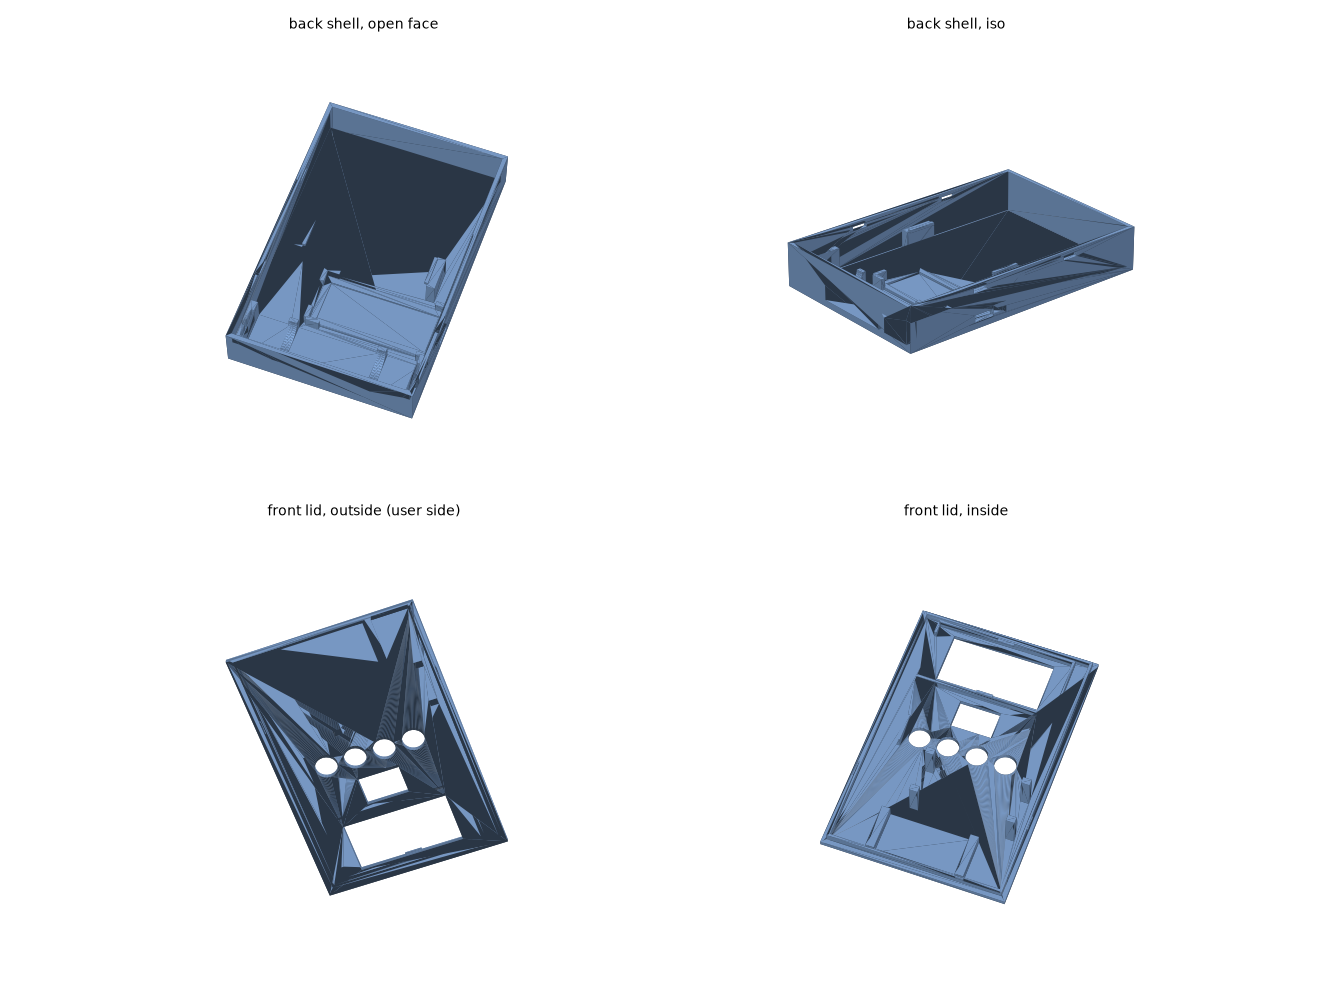
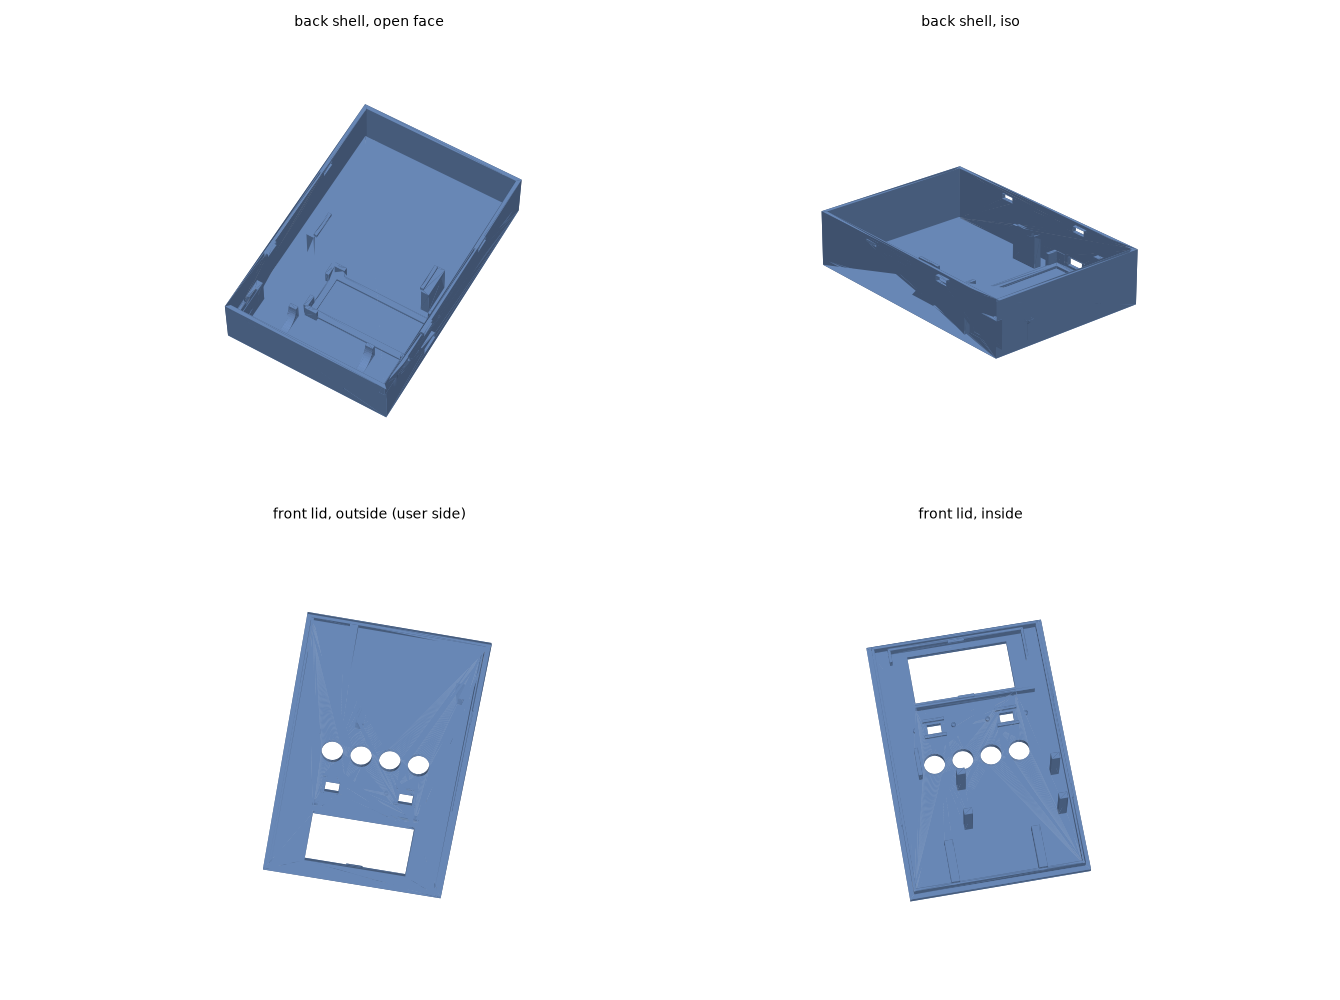
Replace rocker with mode slide switch and add power slide switch
- config/main: PIN_ROCKER becomes PIN_MODE (mode slide switch, same wake
  logic) with a short settle delay before reading it. Power switch is in
  series with battery + and has no GPIO.
- case: two slide-switch slots in the lid (mode left, power right) with
  heat-stake pins for the mounting ears and locating ribs; STLs and
  preview regenerated.
- README: BOM row, wiring notes (charging needs power on), case notes.
- CLAUDE.md: slide switch rules and next steps.

diff --git a/hardware/case/case.py b/hardware/case/case.py
@@ -2,7 +2,8 @@
 
 Two printed parts, no screws and no inserts:
   back.stl  : shell with 18650 cradle, ESP32 board pocket, button-board ledges, USB-C slot
-  front.stl : lid with display window, 4 button holes, rocker cutout; its lip snaps into the back
+  front.stl : lid with display window, 4 button holes, two slide-switch slots (mode, power);
+              its lip snaps into the back
 
 Print: back with the open face up; front with the outside face down. PETG, 0.2 mm layers, 3 walls.
 All sizes are nominal datasheet values. MEASURE YOUR PARTS and edit the PARAMETERS before printing.
@@ -58,8 +59,21 @@ DISP_FRAME_H = 5.0
 BTN_Y = 66.0
 BTN_X = [23.0, 37.0, 51.0, 65.0]  # centres of the four buttons
 BTN_HOLE = 10.5
-ROCKER_Y = 84.0
-ROCKER_CUT = (20.0, 14.0)         # KCD11 mini rocker panel cutout, check your part
+# Two mini SPDT slide switches with mounting ears (SS-12F15 family), mounted under the lid with
+# the handle through a slot: left = mode (normal / slave), right = device power.
+# Sizes vary by maker: MEASURE the switch you buy (body, ear hole spacing and diameter, ear
+# thickness, handle size and travel) and edit these before printing.
+SLIDE_Y = 84.0
+SLIDE_X = [W / 2.0 - 18.0, W / 2.0 + 18.0]  # centres: mode (left), power (right)
+SLIDE_BODY = (12.7, 6.6)          # body footprint (along travel, across)
+SLIDE_HANDLE = (2.0, 3.0)         # handle cross-section (along travel, across)
+SLIDE_TRAVEL = 3.0                # handle travel end to end
+SLIDE_CLEAR = 1.0                 # clearance around the handle in the slot
+SLIDE_EAR_PITCH = 19.0            # ear hole centre to centre
+SLIDE_EAR_HOLE = 2.2              # ear hole diameter
+SLIDE_EAR_T = 0.6                 # ear thickness
+STAKE_D = 1.9                     # printed pin through each ear hole, heat-staked after fitting
+STAKE_L = SLIDE_EAR_T + 1.5       # pin length below the lid (leaves 1.5 mm to melt over)
 
 FL = WALL - 0.3  # features start slightly inside the floor so unions fuse
 INNER_W, INNER_H = W - 2 * WALL, H - 2 * WALL
@@ -131,6 +145,7 @@ for xw in (0, W - WALL):
         back = back.cut(box(xw - 0.1, yw - 4, SNAP_Z - 1.5, xw + WALL + 0.1, yw + 4, SNAP_Z + 1.5))
 
 # ---------------- FRONT LID ----------------
+Z0_PLATE = FP - 0.3               # inside features start just inside the plate so unions fuse
 front = box(0, 0, 0, W, H, FP)
 # Lip that enters the back shell (z from FP upward in print orientation: built in +Z, flipped later)
 LIP_H, LIP_T = 5.0, 1.2
@@ -142,13 +157,24 @@ for xb, d in ((WALL + TOL - 0.5, 1), (W - WALL - TOL - 0.3, -1)):
     for yw in (H * 0.30, H * 0.70):
         front = front.union(box(xb, yw - 3.5, FP + LIP_H - 2.0, xb + 0.8, yw + 3.5, FP + LIP_H - 0.6))
 
-# Window, button holes, rocker cutout (through the plate)
+# Window, button holes, slide-switch slots (through the plate)
 disp_cy = DISP_Y0 + DISP_W / 2.0
 front = front.cut(box(cx - WIN_L / 2, disp_cy - WIN_W / 2, -1, cx + WIN_L / 2, disp_cy + WIN_W / 2, FP + 1))
 for bx in BTN_X:
     front = front.cut(cyl(BTN_HOLE / 2, FP + 2, (bx + (cx - 44.0), BTN_Y, FP / 2)))
-front = front.cut(box(cx - ROCKER_CUT[0] / 2, ROCKER_Y - ROCKER_CUT[1] / 2, -1,
-                      cx + ROCKER_CUT[0] / 2, ROCKER_Y + ROCKER_CUT[1] / 2, FP + 1))
+slot_x = SLIDE_HANDLE[0] + SLIDE_TRAVEL + 2 * SLIDE_CLEAR
+slot_y = SLIDE_HANDLE[1] + 2 * SLIDE_CLEAR
+for sx in SLIDE_X:
+    front = front.cut(box(sx - slot_x / 2, SLIDE_Y - slot_y / 2, -1, sx + slot_x / 2, SLIDE_Y + slot_y / 2, FP + 1))
+    # The ears sit flat on the lid underside; a printed pin goes through each ear hole and is
+    # heat-staked (melted over with a soldering iron), so the switches need no screws.
+    for ex in (sx - SLIDE_EAR_PITCH / 2, sx + SLIDE_EAR_PITCH / 2):
+        front = front.union(cyl(STAKE_D / 2, STAKE_L + 0.3, (ex, SLIDE_Y, FP - 0.3 + (STAKE_L + 0.3) / 2)))
+    # Locating ribs either side of the body (across travel) stop it twisting before staking.
+    for sy in (-1, 1):
+        y0 = SLIDE_Y + sy * (SLIDE_BODY[1] / 2 + TOL)
+        front = front.union(box(sx - SLIDE_BODY[0] / 2 + 1, min(y0, y0 + sy * 1.2), Z0_PLATE,
+                                sx + SLIDE_BODY[0] / 2 - 1, max(y0, y0 + sy * 1.2), FP + 2.0))
 
 # Display frame on the inside face, with two flexing hooks on the long edges
 fx0, fx1 = cx - DISP_L / 2 - TOL, cx + DISP_L / 2 + TOL

diff --git a/src/main.cpp b/src/main.cpp
@@ -64,7 +64,7 @@ static bool pressed(int pin) { return digitalRead(pin) == LOW; }
 
 static void setupInputs() {
   // External 1 Mohm pull-ups: the internal ones leak far more in deep sleep.
-  for (int p : {PIN_ROCKER, PIN_SELECT, PIN_ROLE, PIN_SEND, PIN_REFRESH}) pinMode(p, INPUT);
+  for (int p : {PIN_MODE, PIN_SELECT, PIN_ROLE, PIN_SEND, PIN_REFRESH}) pinMode(p, INPUT);
 }
 
 static bool debounced(int pin) {
@@ -149,10 +149,10 @@ static void goToSleep() {
                                (gpio_num_t)PIN_REFRESH};
   uint64_t clickMask = 0;
   for (auto p : clicks) clickMask |= 1ULL << p;
-  // Buttons wake on LOW (pressed). The rocker wakes on the level opposite its current one.
+  // Buttons wake on LOW (pressed). The mode slide switch wakes on the level opposite its current one.
   esp_deep_sleep_enable_gpio_wakeup(clickMask, ESP_GPIO_WAKEUP_GPIO_LOW);
-  esp_deep_sleep_enable_gpio_wakeup(1ULL << PIN_ROCKER,
-                                    pressed(PIN_ROCKER) ? ESP_GPIO_WAKEUP_GPIO_HIGH : ESP_GPIO_WAKEUP_GPIO_LOW);
+  esp_deep_sleep_enable_gpio_wakeup(1ULL << PIN_MODE,
+                                    pressed(PIN_MODE) ? ESP_GPIO_WAKEUP_GPIO_HIGH : ESP_GPIO_WAKEUP_GPIO_LOW);
   WiFi.mode(WIFI_OFF);
   esp_deep_sleep_start();
 }
@@ -177,9 +177,11 @@ void setup() {
   }
 
   Result total;
-  bool redraw = esp_sleep_get_wakeup_cause() == ESP_SLEEP_WAKEUP_UNDEFINED;  // first power-up
+  // First power-up, including turning the power slide switch back on: always redraw.
+  bool redraw = esp_sleep_get_wakeup_cause() == ESP_SLEEP_WAKEUP_UNDEFINED;
 
-  Result r = logic.setMode(pressed(PIN_ROCKER) ? Mode::Slave : Mode::Normal);
+  delay(DEBOUNCE_MS);  // let the slide switch contacts settle if it caused the wake
+  Result r = logic.setMode(pressed(PIN_MODE) ? Mode::Slave : Mode::Normal);
   redraw |= r.redraw;
 
   const struct { int pin; Input in; } buttons[] = {

diff --git a/src/config.h b/src/config.h
@@ -4,7 +4,9 @@
 
 // Wake-capable inputs. On the ESP32-C6 only GPIO0..GPIO7 (LP IO) can wake from deep sleep.
 // Wire each input to GND through the switch, with an external 1 Mohm pull-up to 3V3.
-constexpr int PIN_ROCKER  = 0;  // closed = slave mode
+// PIN_MODE is the mode slide switch (mini SPDT, middle pin + one outer pin used as SPST):
+// closed to GND = slave mode. It wakes on the level opposite its current one.
+constexpr int PIN_MODE    = 0;  // closed = slave mode
 constexpr int PIN_SELECT  = 1;
 constexpr int PIN_ROLE    = 2;
 constexpr int PIN_SEND    = 3;
@@ -17,6 +19,9 @@ constexpr int PIN_EPD_CS   = 18;
 constexpr int PIN_EPD_DC   = 19;
 constexpr int PIN_EPD_RST  = 20;
 constexpr int PIN_EPD_BUSY = 21;
+
+// The second slide switch (device power) sits in series with the battery positive lead and
+// has no GPIO: off cuts everything, including USB charging through the battery connector.
 
 // I2C for the optional MAX17048 fuel gauge.
 constexpr int PIN_SDA = 6;

diff --git a/lib/core/switch_logic.h b/lib/core/switch_logic.h
@@ -30,7 +30,7 @@ class Logic {
   bool on[kOutlets] = {false, false, false, false};  // last state we sent (assumed)
   uint8_t selected = 0;
 
-  // The rocker switch selects the mode.
+  // The mode slide switch selects the mode.
   Result setMode(Mode m);
   // A click button was pressed.
   Result press(Input in);

diff --git a/README.md b/README.md
@@ -3,7 +3,8 @@
 A battery-powered handheld switch that turns outlets on a TP-Link Tapo P304M (UK) Matter power strip on and off.
 Built for a workshop master/slave pair (for example a table saw and a vacuum): on/off only, no power-draw sensing.
 
-- A rocker switch picks **normal** or **slave** mode.
+- A **mode** slide switch picks **normal** or **slave** mode.
+- A **power** slide switch turns the whole device on and off.
 - **Normal mode:** *Send* toggles the selected outlet.
 - **Slave mode:** *Send* toggles every outlet marked *master*, and every *slave* outlet takes the same state.
 - A 2.13 in e-paper screen shows the mode, each outlet's role and state, and the battery level.
@@ -42,14 +43,24 @@ Only GPIO0 to GPIO7 can wake the ESP32-C6 from deep sleep.
 
 | Signal | GPIO |
 |---|---|
-| Rocker (closed = slave mode) | 0 |
+| Mode slide switch (closed = slave mode) | 0 |
 | Select / Role / Send / Refresh | 1 / 2 / 3 / 4 |
 | e-paper SCK / MOSI / CS / DC / RST / BUSY | 23 / 22 / 18 / 19 / 20 / 21 |
 | Fuel gauge SDA / SCL (optional) | 6 / 7 |
+| Power slide switch | no GPIO: in series with the battery positive lead |
+
+Both slide switches are mini SPDT parts used as SPST: wire the middle pin and one outer pin, leave the other outer pin unconnected.
+
+- **Mode switch:** middle pin to GPIO0 (with its 1 MΩ pull-up), outer pin to GND. Closed = slave mode. Flipping it wakes the board and redraws the screen.
+- **Power switch:** cell + to the middle pin, outer pin to the + wire of the board's battery connector. Off cuts everything.
+  Because the switch sits before the charger, **USB-C charging only works with the power switch on**.
+  The e-paper keeps its last image when the power is off, so the screen does not show that the device is off.
 
 ## Case
 
-`hardware/case/case.py` builds two parts with no screws: a back shell with an 18650 cradle, ESP32 pocket, button-board ledges and a USB-C slot, and a snap-fit lid with the display window, four button holes and the rocker cutout.
+`hardware/case/case.py` builds two parts with no screws: a back shell with an 18650 cradle, ESP32 pocket, button-board ledges and a USB-C slot, and a snap-fit lid with the display window, four button holes and two slide-switch slots (mode on the left, power on the right).
+Each slide switch sits under the lid with its handle through the slot. Printed pins go through the switch's two mounting ears and are heat-staked with a soldering iron, so no screws are needed.
+Slide switch sizes vary by maker: measure yours (body, ear hole spacing and diameter, handle size and travel) and edit the `SLIDE_*` parameters before printing.
 Run `python hardware/case/case.py` (needs `trimesh`, `manifold3d`, `numpy`, `networkx`, `scipy`) to regenerate `hardware/case/stl/`.
 Print the back open-face up and the lid outside-face down, in PETG.
 
@@ -67,7 +78,7 @@ Buy the 18650 cell from a UK authorised dealer, not AliExpress.
 | Core | Waveshare 2.13in e-Paper HAT, black/white, 250x122, SPI | Waveshare 2.13inch e-Paper HAT (V4) | 1 | £14.40 |
 | Core | Protected 18650 cell, 3000 mAh, button top | BAK N18650CK (protected) | 1 | £5.45 |
 | Core | 18650 spring and flat contact plates for a printed cell bay (pack) | Generic 18650 battery contact set | 1 | £3.00 |
-| Core | Mini rocker switch, SPST 2-pin (normal / slave mode) | KCD11 mini rocker (check cutout size in the listing) | 1 | £1.50 |
+| Core | Mini SPDT slide switch, 3-pin, two mounting ears, tall handle (one for mode, one for power; pack of 10) | SS-12F15 family (confirm the exact part and measure it) | 1 | £4.00 |
 | Core | 12 x 12 mm tactile click switches with caps (pack of 10) | Generic 12x12x7.3 mm tactile switch | 1 | £3.00 |
 | Core | 1 MΩ 1/4 W resistors (pack of 20) | Generic 1M 1/4W | 1 | £2.00 |
 | Core | 26 AWG silicone hookup wire, 6 colours | Generic 26AWG silicone wire | 1 | £6.00 |
@@ -83,7 +94,7 @@ Buy the 18650 cell from a UK authorised dealer, not AliExpress.
 | Tools | Solder, 0.8 mm | Generic 0.8 mm solder | 1 | £6.00 |
 | Tools | Multimeter with µA range, to measure sleep current | e.g. UNI-T UT61E+ class | 1 | £55.00 |
 
-Core parts about £106, optional parts about £7, tools about £96. Alternative: a DFRobot FireBeetle 2 ESP32-S3 instead of the C6 if you run Matter controller firmware.
+Core parts about £109, optional parts about £7, tools about £96. Alternative: a DFRobot FireBeetle 2 ESP32-S3 instead of the C6 if you run Matter controller firmware.
 
 **Safety.** The build has no mains wiring. The strip is rated 3250 W / 13 A, but its motor rating is unclear: switch large induction motors through a motor-rated contactor and use the strip only as the signal. Protect the Li-ion cell, and insulate contacts with Kapton tape.
 

diff --git a/CLAUDE.md b/CLAUDE.md
@@ -19,12 +19,15 @@ Battery-powered handheld ESP32-C6 switch that turns outlets on a TP-Link Tapo P3
 - Keep logic in `lib/core` and add a test in `test/test_logic.cpp` for every behaviour change. Hardware code stays thin.
 - Low battery drain is the top priority: deep sleep between presses, e-paper only redrawn on change, external 1 MΩ pull-ups.
 - Only GPIO0..GPIO7 can wake the ESP32-C6 from deep sleep.
+- Two mini SPDT slide switches: mode (`PIN_MODE`, GPIO0, wakes on the level opposite its current one) and power
+  (in series with battery +, no GPIO; USB charging only works with it on). The mode switch needs no logic changes.
 - Never commit `src/secrets.h` (Wi-Fi details) or any personal info, addresses or account links. The repo holds code, case model and README BOM only.
 - The case dimensions are nominal datasheet values. Edit the PARAMETERS block in `case.py` after measuring real parts; keep the solids watertight and single-body.
 - The build has no mains wiring. Do not suggest switching large induction motors directly through the strip.
 
 ## Status and next steps
 - Core logic: done and tested. Firmware: written, not yet compiled or run on hardware. Case: modelled, not test-printed.
+- Measure the slide switches you buy and update the `SLIDE_*` parameters in `case.py` before printing.
 - Verify pins in `src/config.h` against the DFR1075 pinout; compile with PlatformIO and fix API mismatches in the Matter and display calls.
 - Measure deep-sleep and wake-to-send time; tune `MATTER_SETTLE_MS` (events sent before the hub resubscribes are lost).
 - Not implemented: direct binding and ESP32-as-controller routes.
